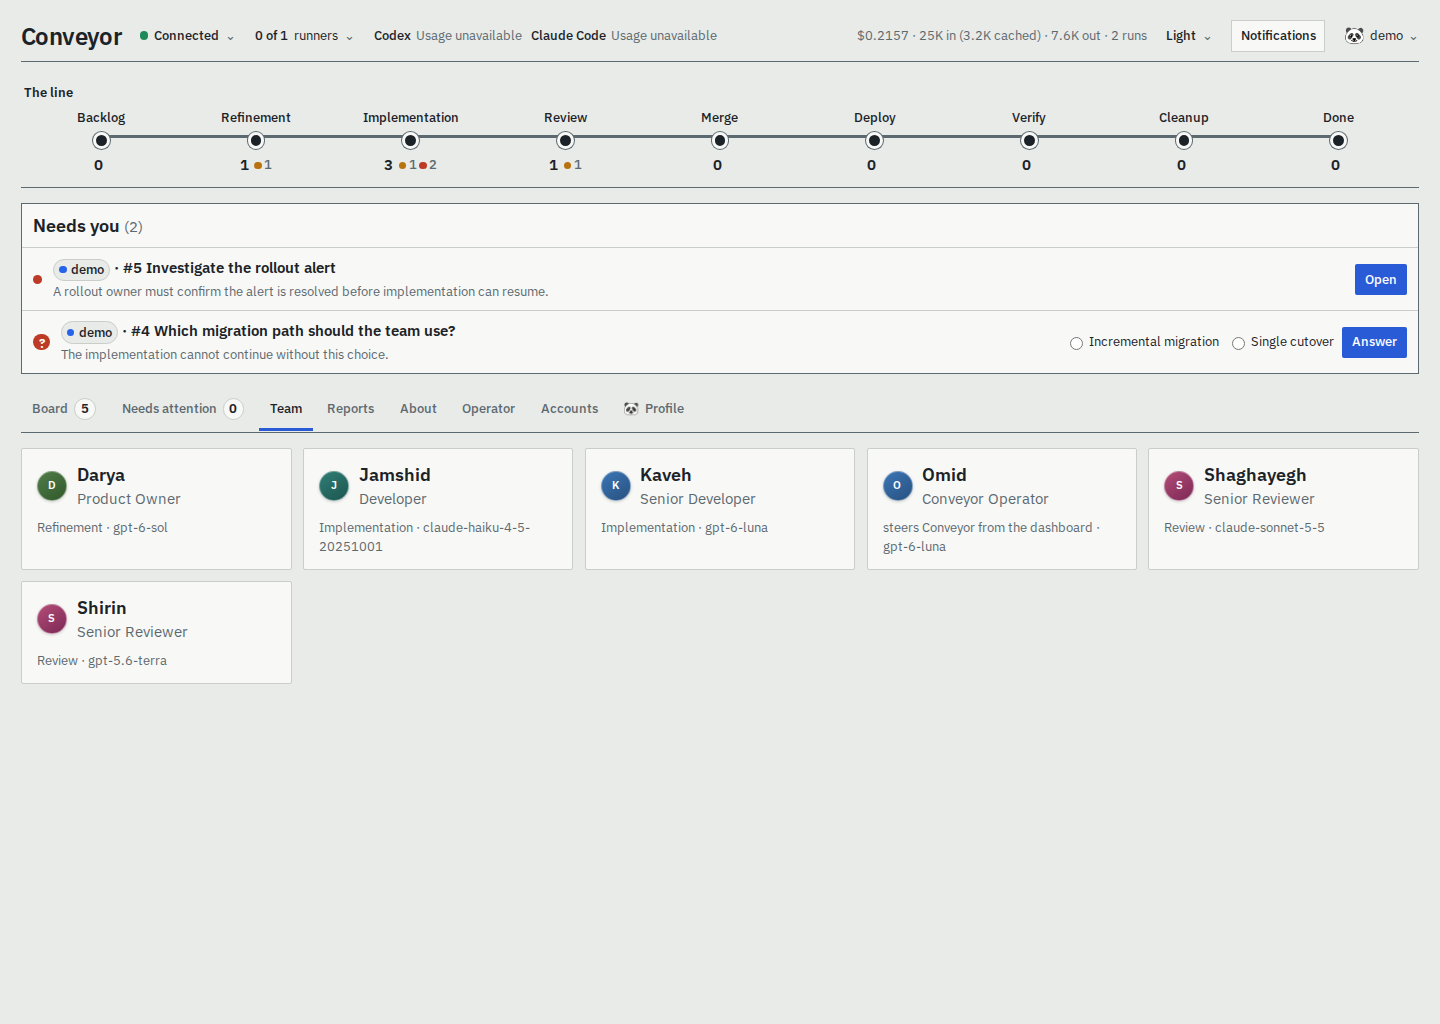
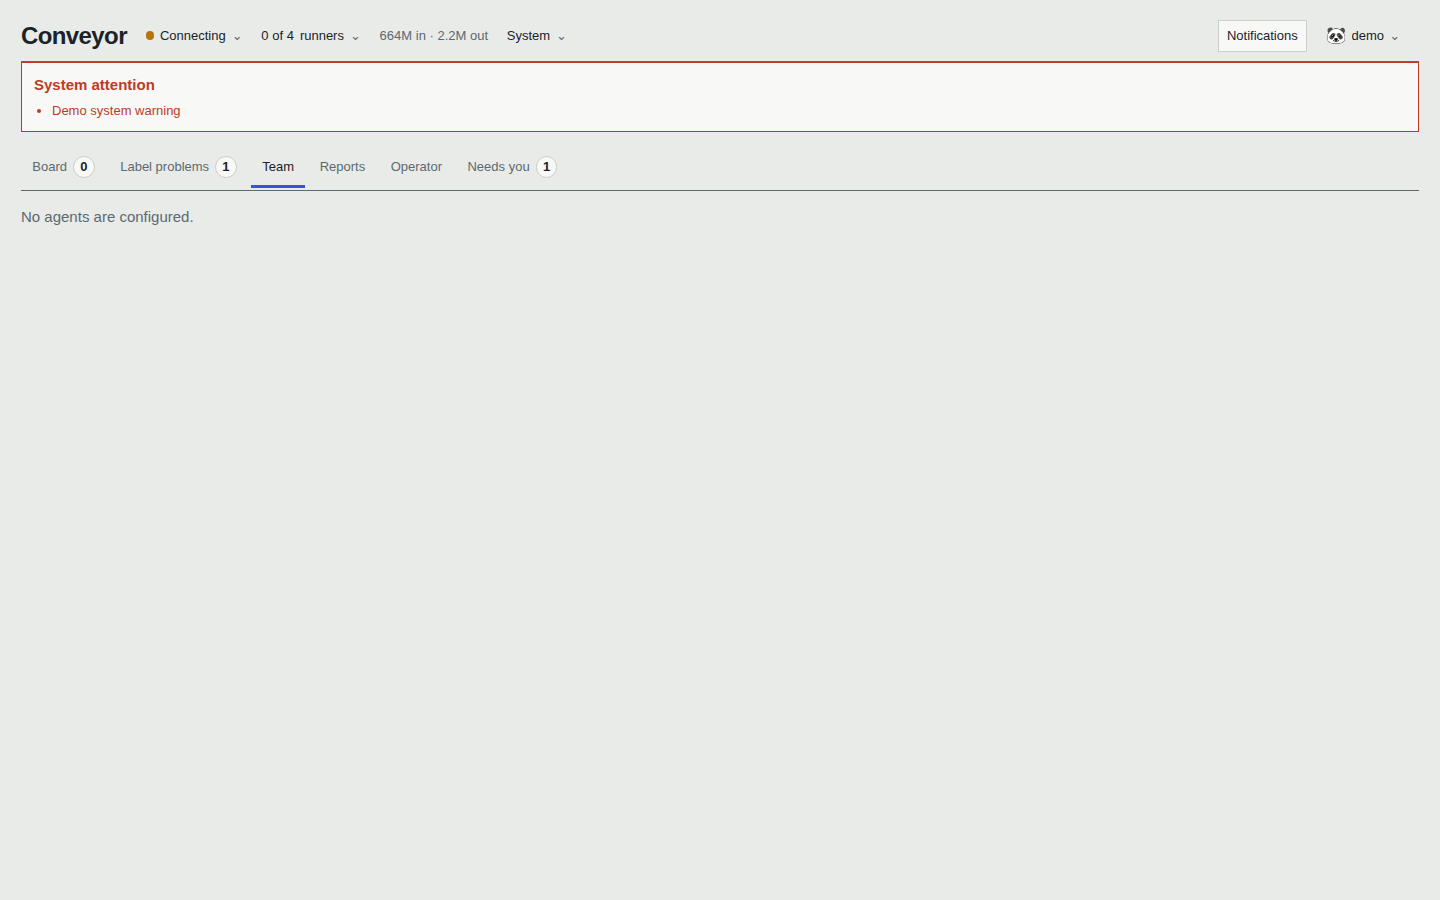
Refine dashboard navigation and board summaries

diff --git a/tests/web/render.test.ts b/tests/web/render.test.ts
@@ -152,7 +152,7 @@ const dashboard: DashboardViewModel = {
   },
   attention: {
     id: "attention",
-    name: "Needs attention",
+    name: "Label problems",
     actors: [],
     cost: null,
     totalIssues: 1,
@@ -207,7 +207,7 @@ describe("renderDashboard", () => {
     expect(html).toContain('href="/settings/notifications"');
     expect(html).toContain('class="account-menu"');
     expect(html).toContain('href="/profile"');
-    expect(html).toContain('> Profile</a>');
+    expect(html).toContain('>Profile</a>');
 
     expect(dashboardCss).toContain(".total-usage{grid-column:2;grid-row:2;justify-self:start;min-width:0;max-width:100%;overflow:hidden;text-overflow:ellipsis}");
     expect(dashboardCss).toContain(".tabs{margin-bottom:.7rem;max-width:100%;overflow-x:auto;overscroll-behavior-x:contain}");
@@ -412,6 +412,35 @@ describe("renderDashboard", () => {
     expect(html).not.toContain('href="/?issue=');
   });
 
+  test("keeps Board summaries on the Board and gives every view conditional navigation", () => {
+    const secondary = renderDashboard({ ...dashboard, view: "team" });
+    const empty = renderDashboard({ ...dashboard, view: "team", questions: [], needsYou: [], counts: { ...dashboard.counts, attention: 0 } });
+    const attention = renderDashboard({ ...dashboard, view: "attention", counts: { ...dashboard.counts, attention: 0 } });
+    const questionAndStopped = renderDashboard({
+      ...dashboard,
+      view: "team",
+      needsYou: [...dashboard.needsYou, backlogIssue],
+    });
+
+    expect(secondary.indexOf('class="app-header"')).toBeLessThan(secondary.indexOf('class="system-warnings"'));
+    expect(secondary.indexOf('class="system-warnings"')).toBeLessThan(secondary.indexOf('class="tabs"'));
+    expect(secondary.indexOf('class="tabs"')).toBeLessThan(secondary.indexOf('class="team"'));
+    expect(secondary).not.toContain('id="line-heading"');
+    expect(secondary).not.toContain('id="needs-you-heading"');
+    expect(secondary).toContain('href="/board#needs-you-heading" class="tab">Needs you <span class="tab-count">2</span>');
+    expect(secondary).toContain('>Label problems<span class="tab-count">1</span>');
+    expect(secondary).not.toContain('href="/profile" class="tab');
+    expect(secondary).not.toContain('href="/accounts" class="tab');
+    expect(secondary).not.toContain('href="/about" class="tab');
+    expect(secondary).not.toContain('href="/accounts" class="account-menu-item"');
+    expect(secondary).toContain('>About Conveyor</a>');
+    expect(questionAndStopped).toContain('href="/board#needs-you-heading" class="tab">Needs you <span class="tab-count">2</span>');
+    expect(empty).not.toContain('/board#needs-you-heading');
+    expect(empty).not.toContain('href="/attention"');
+    expect(attention).toContain('href="/attention" class="tab tab--active" aria-current="page">Label problems<span class="tab-count">0</span>');
+    expect(renderDashboard(dashboard).indexOf('class="tabs"')).toBeLessThan(renderDashboard(dashboard).indexOf('id="line-heading"'));
+  });
+
   test("renders one horizontal board column per configured stage with card status styling", () => {
     const html = renderDashboard(dashboard);
 
@@ -455,7 +484,7 @@ describe("renderDashboard", () => {
     expect(html).toContain('border-left:16px solid var(--repo-color,var(--line))');
     expect(html).toContain('.blocked-summary{margin:.75rem 0 0;');
     expect(html).toContain('color:var(--stop)');
-    expect(html).toContain("Needs attention");
+    expect(html).toContain("Label problems");
     expect(html).toContain("Needs you <span>(2)</span>");
     expect(html).toContain("#41 Build &lt;safe> &amp; sound");
     expect(html).toContain('<a class="needs-you-action" href="/issues/sample/41">Open</a>');
@@ -606,7 +635,9 @@ describe("renderDashboard", () => {
     expect(html).toContain('<a class="header-link" href="/settings/notifications">Notifications</a>');
     expect(html).toContain('class="account-menu"');
     expect(html).toContain('aria-label="Account menu for reader &amp; friend"');
-    expect(html).toContain('href="/profile#change-password">Change password</a>');
+    expect(html).not.toContain('href="/accounts" class="account-menu-link"');
+    expect(html).toContain('href="/profile#change-password" class="account-menu-link">Change password</a>');
+    expect(html).toContain('href="/about"');
     expect(html).toContain('data-theme-choice="system"');
     expect(html).toContain('data-theme-choice="light"');
     expect(html).toContain('data-theme-choice="dark"');
@@ -624,7 +655,7 @@ describe("renderDashboard", () => {
       accounts: [account, { id: "reader", username: "reader <safe>", role: "user", avatar: "🐸" }],
     });
     expect(accountsHtml).toContain('data-dashboard-view="accounts"');
-    expect(accountsHtml).toContain('href="/accounts" class="tab tab--active" aria-current="page">Accounts</a>');
+    expect(accountsHtml).toContain('href="/accounts" class="account-menu-link account-menu-link--active" aria-current="page">Accounts</a>');
     expect(accountsHtml).toContain('data-account-list="true"');
     expect(accountsHtml).toContain('data-account-create-form="true"');
     expect(accountsHtml).toContain('reader &lt;safe>');
@@ -633,7 +664,7 @@ describe("renderDashboard", () => {
 
     const profileHtml = renderDashboard({ ...dashboard, view: "profile", account });
     expect(profileHtml).toContain('data-dashboard-view="profile"');
-    expect(profileHtml).toContain('href="/profile" class="tab tab--active" aria-current="page"');
+    expect(profileHtml).toContain('href="/profile" class="account-menu-link account-menu-link--active" aria-current="page"');
     expect(profileHtml).toContain('name="avatar" value="🦊" checked');
     expect(profileHtml).toContain('data-profile-avatar-form="true"');
     expect(profileHtml).toContain('<button type="submit">Save</button>');
@@ -692,6 +723,7 @@ describe("renderDashboard", () => {
 
   test("renders invalid stage labels on the separate attention tab", () => {
     const html = renderDashboard({ ...dashboard, view: "attention" });
+    expect(html).toContain("Label problems");
     expect(html).toContain("missing, unknown, or conflicting stage label");
     expect(html).toContain("No valid configured stage label is present.");
     expect(html).not.toContain("Delivery board");

diff --git a/src/web/render.tsx b/src/web/render.tsx
@@ -276,7 +276,7 @@ function stateWords(issue: IssueCardViewModel): string {
     completed: "Done",
     done: "Done",
     error: "Stopped",
-    inconsistent: "Needs attention",
+    inconsistent: "Label problems",
     "in-progress": "Working",
     in_progress: "Working",
     "needs-input": "Needs input",
@@ -395,9 +395,7 @@ function StageColumn({ column, canManage = false }: { column: StageColumnViewMod
 
 function NeedsYou({ model }: { model: DashboardViewModel }) {
   const canManage = canManageDashboard(model);
-  const questionIssueIds = new Set(model.questions.map((question) => question.issueId));
-  const stopped = model.needsYou.filter((issue) => !questionIssueIds.has(issue.id));
-  const total = model.questions.length + stopped.length;
+  const { stopped, total } = needsYouItems(model);
   if (total === 0) return null;
   return (
     <section class="needs-you" aria-labelledby="needs-you-heading">
@@ -443,15 +441,21 @@ function NeedsYou({ model }: { model: DashboardViewModel }) {
   );
 }
 
+function needsYouItems(model: DashboardViewModel) {
+  const questionIssueIds = new Set(model.questions.map((question) => question.issueId));
+  const stopped = model.needsYou.filter((issue) => !questionIssueIds.has(issue.id));
+  return { stopped, total: model.questions.length + stopped.length };
+}
+
 function Navigation({ model }: { model: DashboardViewModel }) {
   const tabs: Array<{ view: DashboardView; label: string; count: number | null }> = [
     { view: "board", label: "Board", count: model.counts.board },
-    { view: "attention", label: "Needs attention", count: model.counts.attention },
     { view: "team", label: "Team", count: null },
     { view: "reports", label: "Reports", count: null },
-    { view: "about", label: "About", count: null },
     { view: "agent", label: "Operator", count: null },
   ];
+  if (model.counts.attention > 0 || model.view === "attention") tabs.splice(1, 0, { view: "attention", label: "Label problems", count: model.counts.attention });
+  const needsYou = needsYouItems(model);
   return (
     <nav class="tabs" aria-label="Dashboard views">
       {tabs.map((tab) => (
@@ -459,8 +463,7 @@ function Navigation({ model }: { model: DashboardViewModel }) {
           {tab.label}{tab.count !== null && <span class="tab-count">{tab.count}</span>}
         </a>
       ))}
-      {canManageDashboard(model) && <a href="/accounts" class={model.view === "accounts" ? "tab tab--active" : "tab"} aria-current={model.view === "accounts" ? "page" : undefined}>Accounts</a>}
-      <a href="/profile" class={model.view === "profile" ? "tab tab--active" : "tab"} aria-current={model.view === "profile" ? "page" : undefined}><span data-profile-avatar>{model.account?.avatar ?? "🐼"}</span> Profile</a>
+      {needsYou.total > 0 && <a href="/board#needs-you-heading" class="tab">Needs you <span class="tab-count">{needsYou.total}</span></a>}
     </nav>
   );
 }
@@ -588,7 +591,7 @@ function Attention({ model }: { model: DashboardViewModel }) {
   const column = model.attention;
   return (
     <section class="panel" aria-labelledby="attention-heading">
-      <header class="section-heading"><div><h2 id="attention-heading">Needs attention</h2><p>These enrolled issues have a missing, unknown, or conflicting stage label.</p></div><span class="count" aria-label={`${column.totalIssues} issues`}>{column.totalIssues}</span></header>
+      <header class="section-heading"><div><h2 id="attention-heading">Label problems</h2><p>These enrolled issues have a missing, unknown, or conflicting stage label.</p></div><span class="count" aria-label={`${column.totalIssues} issues`}>{column.totalIssues}</span></header>
       {column.issues.length > 0
         ? <ol class="attention-grid">{column.issues.map((issue) => <li key={issue.id}><IssueCard issue={issue} canManage={canManageDashboard(model)} /></li>)}</ol>
         : <p class="empty">No label inconsistencies</p>}
@@ -770,16 +773,17 @@ function Page({ model }: { model: DashboardViewModel }) {
             <details class="account-menu">
               <summary aria-label={`Account menu for ${model.account?.username ?? "user"}`}><span class="account-avatar">{model.account?.avatar ?? "🐼"}</span><span class="account-username">{model.account?.username}</span></summary>
               <div class="header-popover account-popover">
-                <a href="/profile">Profile</a>
-                <a href="/profile#change-password">Change password</a>
+                <a href="/profile" class={model.view === "profile" ? "account-menu-link account-menu-link--active" : "account-menu-link"} aria-current={model.view === "profile" ? "page" : undefined}>Profile</a>
+                {canManageDashboard(model) && <a href="/accounts" class={model.view === "accounts" ? "account-menu-link account-menu-link--active" : "account-menu-link"} aria-current={model.view === "accounts" ? "page" : undefined}>Accounts</a>}
+                <a href="/about" class={model.view === "about" ? "account-menu-link account-menu-link--active" : "account-menu-link"} aria-current={model.view === "about" ? "page" : undefined}>About Conveyor</a>
+                <a href="/profile#change-password" class="account-menu-link">Change password</a>
                 <form class="logout-form" method="post" action="/logout"><input type="hidden" name="csrf" value={model.csrfToken} /><input type="hidden" name="pushEndpoint" value="" /><button class="logout" type="submit">Sign out</button></form>
               </div>
             </details>
           </header>
-          <Line model={model} />
           {model.systemWarnings.length > 0 && <section class="system-warnings" role="alert"><h2>System attention</h2><ul>{model.systemWarnings.map((warning) => <li key={warning}>{warning}</li>)}</ul></section>}
-          <NeedsYou model={model} />
           <Navigation model={model} />
+          {model.view === "board" && <><Line model={model} /><NeedsYou model={model} /></>}
           {content}
           {model.selectedIssue && (
             <DetailsDialog

diff --git a/tests/web/server.test.ts b/tests/web/server.test.ts
@@ -29,7 +29,7 @@ const model: DashboardViewModel = {
   },
   attention: {
     id: "attention",
-    name: "Needs attention",
+    name: "Label problems",
     actors: [],
     cost: null,
     totalIssues: 0,
@@ -467,7 +467,7 @@ describe("createWebHandler", () => {
     const html = await response.text();
     expect(html).toContain('data-dashboard-view="about"');
     expect(html).toContain('href="/about"');
-    expect(html).toContain('class="tab tab--active"');
+    expect(html).toContain('class="account-menu-link account-menu-link--active"');
     expect(html).toContain('aria-current="page"');
     expect(html).toContain("<h2 id=\"about-heading\">About</h2>");
     expect(html).toContain(`Version ${packageMetadata.version}`);
@@ -819,7 +819,7 @@ describe("createWebHandler", () => {
     expect(accountsPage).toContain('action="/api/accounts"');
     expect(accountsPage).toContain('class="dashboard"');
     expect(accountsPage).toContain('data-dashboard-view="accounts"');
-    expect(accountsPage).toContain('href="/accounts" class="tab tab--active" aria-current="page">Accounts</a>');
+    expect(accountsPage).toContain('href="/accounts" class="account-menu-link account-menu-link--active" aria-current="page">Accounts</a>');
     expect(accountsPage).toContain('data-account-create-form="true"');
     expect(accountsPage).toContain('data-account-list="true"');
     expect(accountsPage).toContain('action="/logout"');
@@ -879,8 +879,8 @@ describe("createWebHandler", () => {
     expect(profilePage).toContain('data-profile-avatar-form="true"');
     expect(profilePage).toContain('<button type="submit">Save</button>');
     expect(profilePage).not.toContain('Save avatar');
-    expect(profilePage).toContain('href="/profile" class="tab tab--active" aria-current="page"');
-    expect(profilePage).toContain('href="/profile#change-password">Change password</a>');
+    expect(profilePage).toContain('href="/profile" class="account-menu-link account-menu-link--active" aria-current="page"');
+    expect(profilePage).toContain('href="/profile#change-password" class="account-menu-link">Change password</a>');
     expect(profilePage).toContain('class="dashboard-header"');
     expect(profilePage).not.toContain('href="/accounts">Accounts</a>');
 

diff --git a/src/web/styles.ts b/src/web/styles.ts
@@ -53,6 +53,7 @@ body:has(dialog[open]){overflow:hidden}
 .account-table thead th:first-child{display:table-cell}.notification-form{display:block}.notification-options{display:grid;gap:.55rem;margin:0 0 .8rem;padding:0;border:0}.notification-options legend{margin-bottom:.5rem;color:var(--steel);font-size:var(--text-sm);font-weight:500}.notification-options label{display:flex;align-items:flex-start;gap:.55rem;color:var(--ink);font-size:var(--text-sm);font-weight:400}.notification-options input{margin-top:.2rem;accent-color:var(--signal)}.notification-form .settings-actions{display:flex}.settings-status{margin:.75rem 0 0;color:var(--steel);font-size:var(--text-sm)}.header-link.header-link--active{border-color:var(--signal);color:var(--signal)}.dashboard-navigating main.dashboard{cursor:progress}
 @media(max-width:760px){.settings-section--form{grid-template-columns:1fr}.settings-form{grid-template-columns:1fr}.settings-actions{grid-column:1}.account-table th:last-child,.account-table td:last-child{width:auto}}
 @media(max-width:760px){.total-usage{grid-column:2;grid-row:2;justify-self:start;min-width:0;max-width:100%;overflow:hidden;text-overflow:ellipsis}.tabs{margin-bottom:.7rem;max-width:100%;overflow-x:auto;overscroll-behavior-x:contain}.tab{flex:0 0 auto;padding:.55rem .65rem;white-space:nowrap}}
+.account-popover>a[aria-current="page"]{background:var(--concrete);font-weight:600}
 `;
 
 export const quotaHeaderCss = `

diff --git a/tests/app/dashboard.test.ts b/tests/app/dashboard.test.ts
@@ -1222,7 +1222,7 @@ describe("ConveyorService dashboard", () => {
       inconsistent: false,
       children: [{ number: 27 }],
     });
-    expect(dashboard.attention).toMatchObject({ totalIssues: 1 });
+    expect(dashboard.attention).toMatchObject({ name: "Label problems", totalIssues: 1 });
     expect(dashboard.attention.issues[0]).toMatchObject({
       number: 28,
       reason: "No valid configured stage label is present.",

diff --git a/src/app/service.ts b/src/app/service.ts
@@ -2079,7 +2079,7 @@ export class ConveyorService {
       },
       attention: column(
         "attention",
-        "Needs attention",
+        "Label problems",
         attentionIssues,
         null,
         (issue) => card(issue, {

diff --git a/docs/dashboard.md b/docs/dashboard.md
@@ -2,6 +2,8 @@
 
 The dashboard is where you watch and steer delivery: the board, each item's story, the agents, reports and the operator. It is served by `conveyor serve` (default `http://127.0.0.1:7788`) and needs a signed-in account (`conveyor init` creates the first).
 
+The shared header is followed by the view navigation: **Board**, **Team**, **Reports**, and **Operator**. **Label problems** appears when enrolled issues have missing, unknown, or conflicting stage labels (and remains available on its empty page). The Board alone shows **The line** and its **Needs you** panel; when questions or stopped items need a person, every view links to that panel with the same count. The account menu contains Profile, About Conveyor, Change password, Sign out, and Accounts for administrators; Notifications remains in the header.
+
 ## Screenshots
 
 The screenshots below are generated by `bun run docs:screenshots` from isolated demo data whenever the dashboard layout changes. In a fresh checkout, run `bun install --frozen-lockfile` and `bunx playwright install chromium` once, then run the command from the repository root. It starts Conveyor with seeded demo items and captures each view at a fixed 1440×1024 viewport. If you change the dashboard layout, regenerate and commit the screenshots in the same pull request; PR Check runs the command twice and verifies pixel-identical images.
@@ -13,11 +15,11 @@ The board shows backlog, configured stages, completed work, active runner capaci
 - **Journey** — stage transitions, corrections, stops, and their reasons.
 - **Technical logs** — paginated raw run events for debugging.
 
-![The board, with items needing you above it](screenshots/board.png)
+![The Board, with its summaries after the shared navigation](screenshots/board.png)
 
 ![An item's conversation](screenshots/item.png)
 
-![The team](screenshots/team.png)
+![The Team view beginning directly below the shared navigation](screenshots/team.png)
 
 Above the board, every configured agent links to a read-only profile page (`/agents/<id>`; `/agents` lists them all) showing its harness, model, effort, workspace access, the pipeline stages it works in, its granted tools, and its instructions.
 

diff --git a/docs/architecture.md b/docs/architecture.md
@@ -63,7 +63,7 @@ flowchart LR
 
 An issue is enrolled with the configured base label (by default `conveyor`). A stage label such as `conveyor:implementation` projects it into a pipeline stage. State labels represent stopped or terminal conditions, and an order label provides durable backlog ordering.
 
-Removing the enrollment label pauses execution without erasing the issue. Removing every Conveyor-prefixed label offboards it from the dashboard. Ambiguous, unknown, or conflicting labels are shown under **Needs attention** rather than guessed.
+Removing the enrollment label pauses execution without erasing the issue. Removing every Conveyor-prefixed label offboards it from the dashboard. Ambiguous, unknown, or conflicting labels are shown under **Label problems** rather than guessed.
 
 Parents are roll-ups: they do not consume runner capacity while children remain. Their source stage and board column follow the earliest pipeline stage occupied by an unfinished child, and the board separates them from executable issues within that column. Dependencies prevent an issue from running until the required issues are satisfied. A refinement stage may create child issues and place them directly into a later stage so independent slices can run in parallel.
 

diff --git a/README.md b/README.md
@@ -10,7 +10,7 @@ another implements it in an isolated worktree and opens a pull request, a review
 Conveyor merges, deploys and verifies it. Deterministic gates decide when each stage is done, and
 you watch and steer everything from a dashboard or the command line.
 
-![The delivery board](docs/screenshots/board.png)
+![The delivery Board, with shared navigation above Board-only summaries](docs/screenshots/board.png)
 
 ## Why Conveyor
 
@@ -48,7 +48,7 @@ is the packaged default. Read more in [docs/architecture.md](docs/architecture.m
 | --- | --- |
 | ![An item's story: stages, conversation and runs](docs/screenshots/item.png) | ![Delivery, usage and time per repository](docs/screenshots/reports.png) |
 | **The operator: ask Conveyor to inspect or change the board** | **The team: every agent, its model and its tools** |
-| ![The operator](docs/screenshots/operator.png) | ![Agent profiles](docs/screenshots/team.png) |
+| ![The Operator view under shared navigation](docs/screenshots/operator.png) | ![The Team view under shared navigation](docs/screenshots/team.png) |
 
 ## Quick start
 

diff --git a/docs/design/ui-redesign.md b/docs/design/ui-redesign.md
@@ -136,7 +136,7 @@ Conveyor *is* a production line, so the dashboard reads like the control board o
   - per-column pagination;
   - roll-up parent grouping;
   - working-now highlight.
-- **Views:** the "Needs attention" view for invalid labels; the steering Operator view (compose, live event stream, recent runs, `?view=agent&run=`).
+- **Views:** the "Label problems" view for invalid labels; the steering Operator view (compose, live event stream, recent runs, `?view=agent&run=`).
 - **Live state:** questions with their answer forms, the active-work and runner capacity display, and the live server status (SSE `status` events). Live refresh keeps its revisions: dashboard, conversation, activity.
 - **Issue inspector:**
   - Summary covers relationships, criteria, labels, usage and duration.
